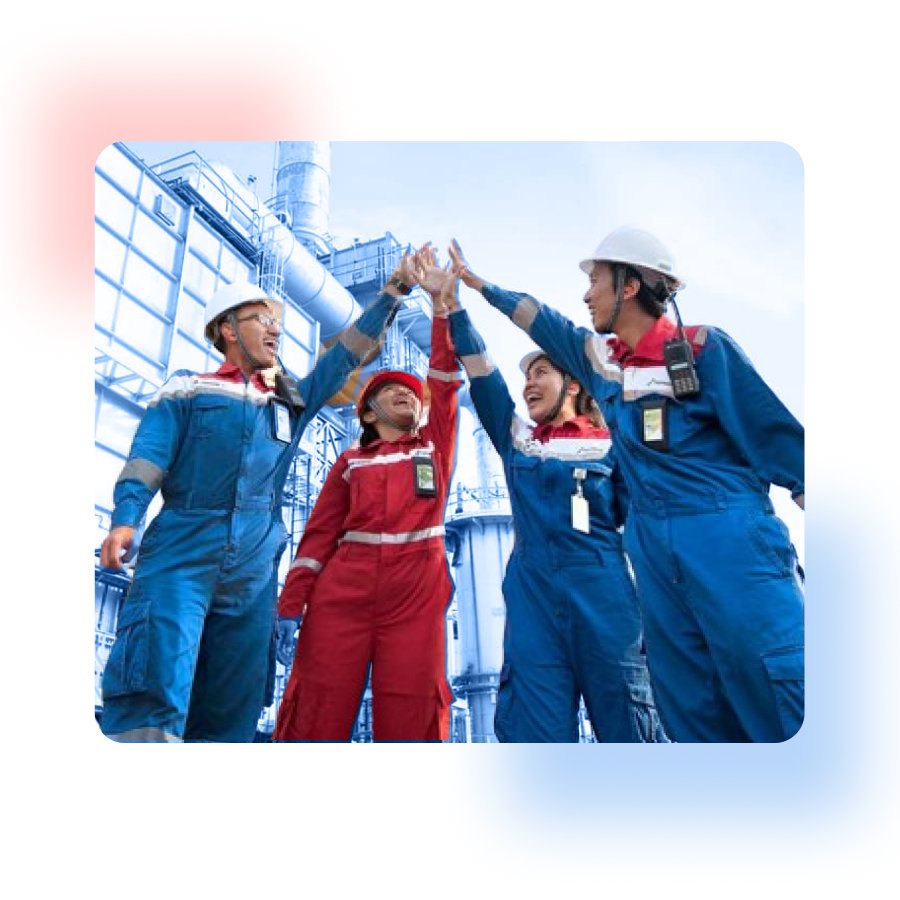
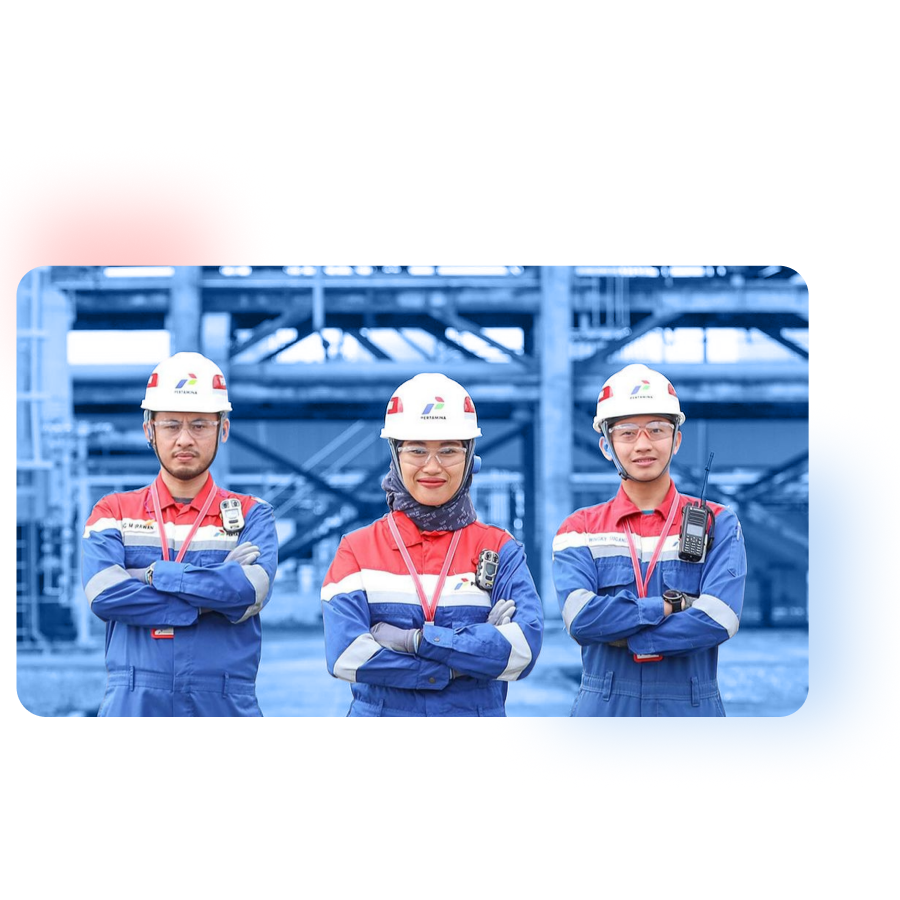
update

diff --git a/index.html b/index.html
@@ -99,7 +99,7 @@
 						<div class="swiper header-slider">
 							<div class="swiper-wrapper">
 								<div class="swiper-slide">
-									<img class=" mb-5" src="./assets/logo/Upstream Champion Landscape Logo Light.png"
+									<img class="logoUcL" src="./assets/logo/Upstream Champion Landscape Logo Light.png"
 										width="30%" alt="" />
 									<h1 class="heading-header-1 mb-0 text-white">COMING SOON</h1>
 									<div class="inner mb-34">
@@ -224,7 +224,7 @@
 
 
 
-		<section class="py-60">
+		<section class="py-43">
 			<div class="container">
 				<div class="row">
 					<div class="col-12 col-lg-6 offset-xxl-1 d-flex  mb-34 mb-lg-0  order-lg-1">
@@ -328,7 +328,7 @@
 									</div>
 								</div>
 								<div class="col-lg-6">
-									<img src="./assets/img/image2.png" class="how-it-work-image-img rounded-40"
+									<img src="./assets/img/image3.png" class="how-it-work-image-img rounded-40"
 										alt="" />
 								</div>
 							</div>
@@ -768,7 +768,7 @@
 					<div class="col-lg-10">
 						<div class="d-grid bg-white p-20 p-md-34 p-xxl-43 mt-24 gap-34 rounded-20 shadow-2 bgcontact">
 							<div class="row ">
-								<h2 class="heading-section-4 text-dark mb-0">Contact</h2>
+								<h2 class="heading-section-4 text-dark mb-0">Kontak</h2>
 								<div class="col-lg-5 my-15 my-xl-24">
 									<div class="contactUs">
 										<p>Lorem ipsum dolor sit amet consectetur adipisicing elit. Saepe dolorum
@@ -782,7 +782,7 @@
 											<p><img src="./assets/img/icon/phone.svg" class="svg-inject svg-icon"
 													alt="" />&nbsp;(021) 29547000</p>
 										</div>
-										<span>Connect with us :</span>
+										<span>Ikuti Social Media Kami :</span>
 										<ul class="social-btn-group mt-25">
 											<li class="social-item">
 												<a class="social-link" href="#">
@@ -815,33 +815,33 @@
 								<div class="col-lg-7">
 									<form action="#" class="row">
 										<div class="col-md-6 col-xl-6 ">
-											<label for="inputFirstname" class="form-label">First Name</label>
+											<label for="inputFirstname" class="form-label">Nama Lengkap</label>
 											<input type="text" class="form-control rounded-pill" id="inputFirstname"
 												placeholder="First Name" />
 										</div>
 
 										<div class="col-md-6 col-xl-6 ">
-											<label for="inputEmailaddress" class="form-label">Email Address</label>
+											<label for="inputEmailaddress" class="form-label">Email Kantor</label>
 											<input type="email" class="form-control rounded-pill" id="inputEmailaddress"
 												placeholder="Email" />
 										</div>
 										<div class="col-md-12 col-xl-12 my-15 my-xl-24">
-											<label for="inputEmailaddress" class="form-label">Your Subject</label>
+											<label for="inputEmailaddress" class="form-label">Subject</label>
 											<input type="Your Subject" class="form-control rounded-pill"
 												id="inputYourSubject" placeholder="Your Subject" />
 										</div>
 
 										<div class="col-12 my-10 my-xl-10">
-											<p class="heading-text-1 text-primary ">Message</p>
-											<label for="textareaAboutyou" class="form-label">Write here your
-												message</label>
+											<p class="heading-text-1 text-primary ">Pesan</p>
+											<label for="textareaAboutyou" class="form-label">Silahkan tulis pesanmu
+												disini...</label>
 											<textarea class="form-control" id="textareaAboutyou" rows="5"
 												placeholder="Message"></textarea>
 										</div>
 										<div class="col-12 d-flex my-15 my-xl-24">
 											<button type="submit"
 												class="btn btn-primary fw-semiBold py-12 px-24 px-md-60 rounded-pill"
-												role="button">Send Message</button>
+												role="button">Kirim</button>
 										</div>
 									</form>
 								</div>

diff --git a/dist/css/style.css b/dist/css/style.css
@@ -24107,7 +24107,7 @@ fieldset:disabled .btn {
 
 @media (min-width:1200px) {
     .accordion.accordion-number .accordion-item .accordion-button .accordion-content .accordion-header {
-        font-size: 1.6875rem
+        font-size: 18px
     }
 }
 
@@ -27063,8 +27063,8 @@ body.page__homepage .main .hero-image-img {
 
 @media (min-width:1400px) {
     body.page__homepage .main .hero-image-img {
-        width: 100%;
-        right: -40px;
+        width: 90%;
+     
     }
 }
 
@@ -27087,7 +27087,7 @@ body.page__homepage .main .header-slider-pagination .swiper-pagination-bullet-ac
 body.page__homepage .main .how-it-work-image-img {
     max-width: 100%;
     max-height: 100%;
-    aspect-ratio: 1/1;
+    aspect-ratio: 1/0;
     -o-object-fit: cover;
     object-fit: cover;
     -o-object-position: center;
@@ -27121,7 +27121,7 @@ body.page__homepage .main .how-it-work-figure-1 {
 
 @media (min-width:1200px) {
     body.page__homepage .main .how-it-work-figure-1 {
-        bottom: calc(100% - 17rem);
+        bottom: calc(100% - 22rem);
         left: calc(100% - 13rem);
         width: 11rem;
     }
@@ -27775,14 +27775,77 @@ body.page__joblist .main .hero-image-img {
 
 
 /* countdown */
-#clockdiv{
+/* #clockdiv{
 	font-family: sans-serif;
 	color: #fff;
 	display: inline-block;
 	font-weight: 100;
 	text-align: center;
-	font-size: 50px;
+	font-size: 65px;
+} */
+
+@media (min-width:320px) and (max-width:576px) {
+    #clockdiv {
+        font-family: sans-serif;
+        color: #fff;
+        display: inline-block;
+        font-weight: 100;
+        text-align: center;
+        font-size: 50px;
+
+    }
+    #clockdiv > div {
+        padding: 8px 20px 8px 20px;
+        border-radius: 15px;
+        background: white;
+        display: inline-block;
+        border: 3px solid #0E74EA;
+    }
+    #clockdiv div > span {
+        padding: 0px;
+       
+    }
+    .smalltext {
+        font-size: 10px;
+        color: #0E74EA;
+        font-weight: 700;
+    }
 }
+
+
+@media (min-width:576px){
+    #clockdiv {
+        font-family: sans-serif;
+        color: #fff;
+        display: inline-block;
+        font-weight: 100;
+        text-align: center;
+        font-size: 65px;
+    }
+}
+
+@media (min-width:768px){
+    #clockdiv {
+        font-family: sans-serif;
+        color: #fff;
+        display: inline-block;
+        font-weight: 100;
+        text-align: center;
+        font-size: 65px;
+    }
+}
+@media (min-width:1400px){
+    #clockdiv {
+        font-family: sans-serif;
+        color: #fff;
+        display: inline-block;
+        font-weight: 100;
+        text-align: center;
+        font-size: 65px;
+    }
+}
+
+
 
 #clockdiv > div {
     padding: 8px 20px 8px 20px;
@@ -27819,9 +27882,13 @@ body.page__joblist .main .hero-image-img {
 .line::after {
     content: '';
     position: absolute;
-    width: 5px;
+    width: 8px;
     height: 100%;
     background-color: #F97300;
     top: 0;
     left: 5px;
+}
+
+.logoUcL {
+    margin-bottom: 2rem;
 }
